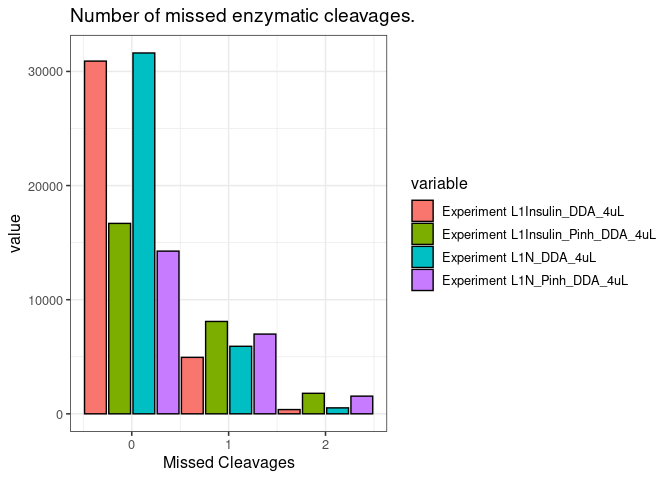
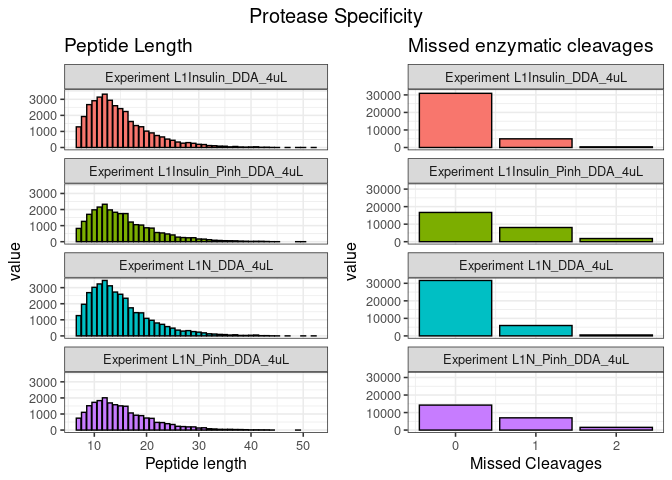
Protease Activity done

diff --git a/README.md b/README.md
@@ -127,7 +127,7 @@ PlotCharge(evidence_irt)
 
 ``` r
 
-PlotMissedCleavages(peptides)
+PlotProteaseSpecificity(peptides)
 ```
 
 <img src="man/figures/README-missed_cleavages-1.png" width="100%" />
